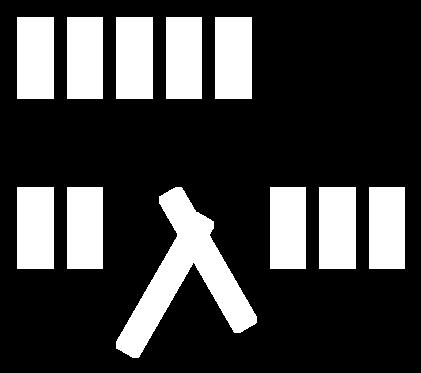
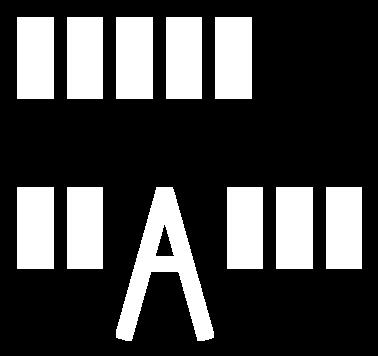
Lettre A terminé

diff --git a/src/main/java/Letter/LetterFactory.java b/src/main/java/Letter/LetterFactory.java
@@ -11,22 +11,31 @@ public final class LetterFactory {
     final static Double stripeThickness = maxHeight / 8;
     final static Double halfStripeThickness = stripeThickness / 2;
 
+    final static Double lessThanHalfMaxHeight = halfMaxHeight / 2;
 
     /** TODO
      * Create the letter A graphically
      * @return BaseShape containing the letter A
      */
     public static BaseShape create_A()  {
-        Double angle1 = Math.PI / 6;
-        Double angle2 = 11 * Math.PI / 6;
-        Rectangle rectangle1 = new Rectangle(stripeThickness, maxHeight);
+        Double angle1 = (Math.PI - 1.5) / 6;
+        Double angle2 = (11 * Math.PI + 1.5) / 6;
+        Double angle3 = Math.PI / 2;
+        Rectangle rectangle1 = new Rectangle(halfStripeThickness, maxHeight);
+        Rectangle rectangle2 = new Rectangle(halfStripeThickness, maxHeight);
+        Rectangle rectangle3 = new Rectangle(halfStripeThickness, lessThanHalfMaxHeight);
+        Point2d translateVectorRectangle1 = new Point2d(3.0, 0.0);
+        Point2d translateVectorRectangle2 = new Point2d(42.5, 12.2);
+        Point2d translateVectorRectangle3 = new Point2d(30.0, 0.0);
         rectangle1.rotate(rectangle1.getCoords(), angle1);
-        Rectangle rectangle2 = new Rectangle(stripeThickness, maxHeight);
-        Point2d translateVector = new Point2d(50.0, 0.0);
-        rectangle2.translate(rectangle2.getCoords(), translateVector);
+        rectangle2.translate(rectangle2.getCoords(), translateVectorRectangle2);
+        rectangle1.translate(rectangle1.getCoords(), translateVectorRectangle1);
         rectangle2.rotate(rectangle2.getCoords(), angle2);
+        rectangle3.rotate(rectangle3.getCoords(), angle3);
+        rectangle3.translate(rectangle3.getCoords(), translateVectorRectangle3);
         BaseShape finalShape = new BaseShape(rectangle1.cloneCoords());
         finalShape.addAll(rectangle2.cloneCoords());
+        finalShape.addAll(rectangle3.cloneCoords());
         return finalShape;
     }
 
